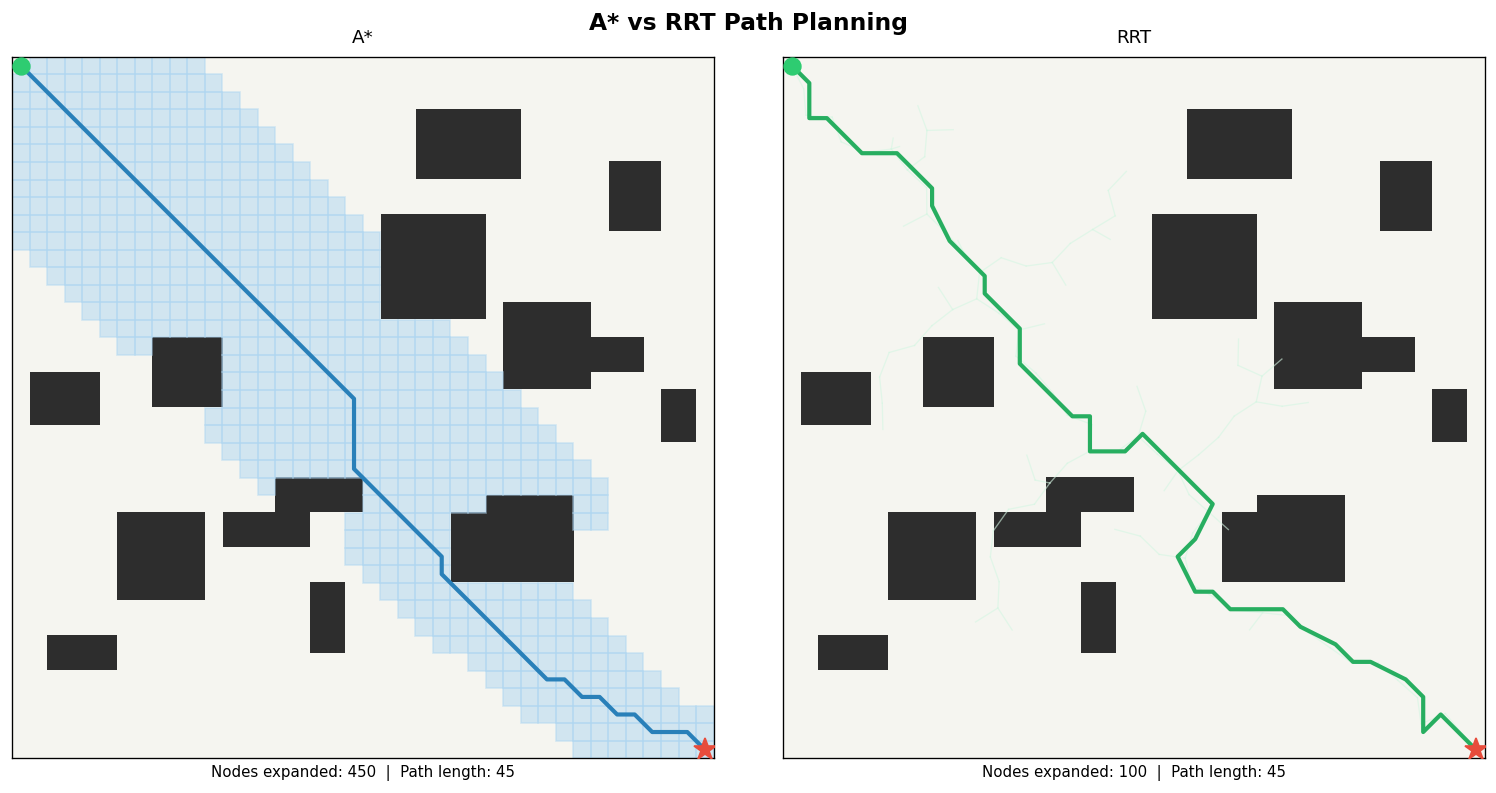
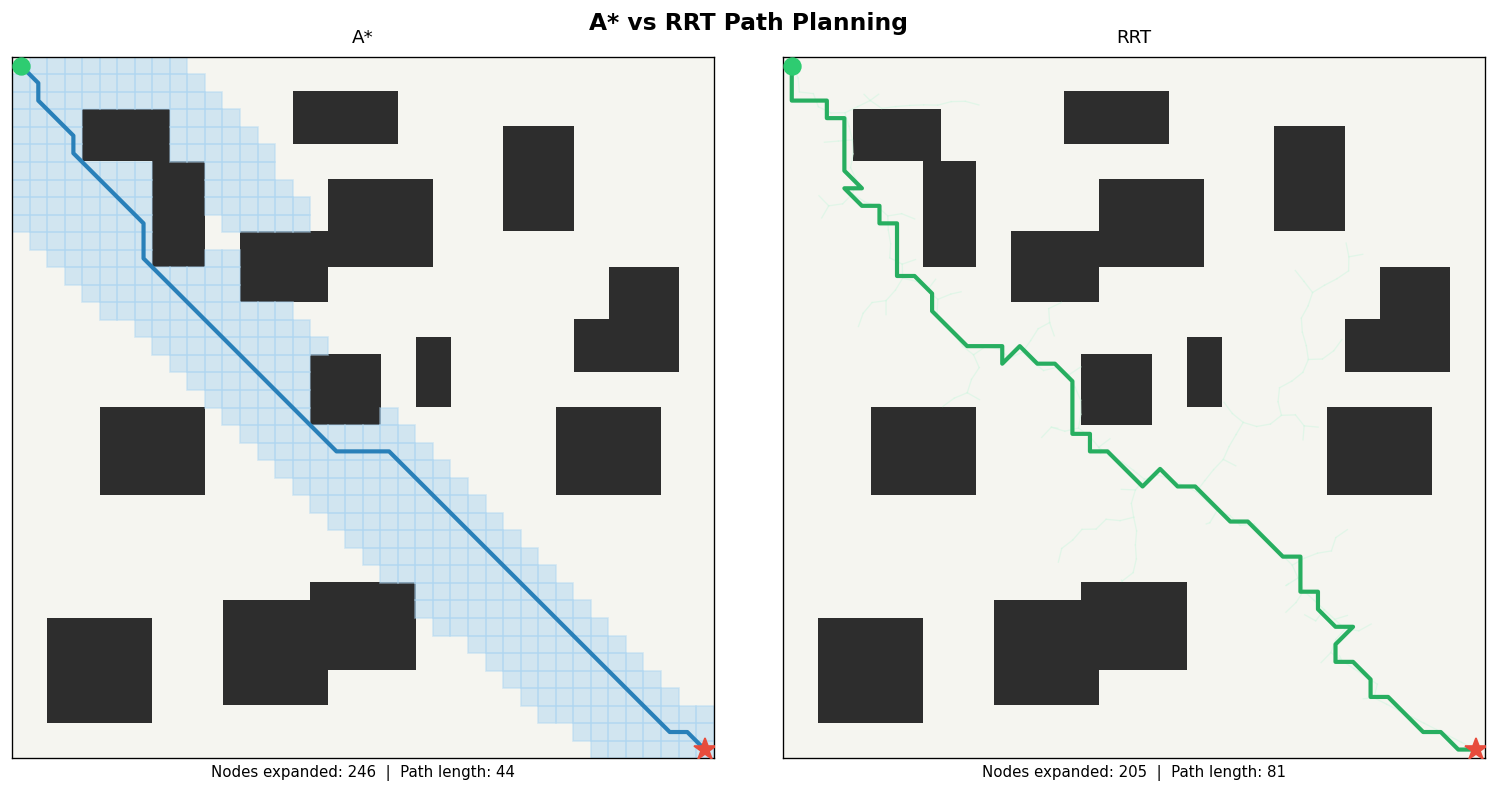
fix: use round() instead of int() in collision check

diff --git a/planners/rrt.py b/planners/rrt.py
@@ -13,7 +13,7 @@ Five steps every iteration:
 """
 
 class RRTPlanner:
-    def __init__(self, step_size=1.5, max_iterations=5000, goal_sample_rate=0.1, goal_tolerance=1.5, seed=None):
+    def __init__(self, step_size=0.8, max_iterations=5000, goal_sample_rate=0.1, goal_tolerance=1.5, seed=None):
         self.step_size = step_size
         self.max_iterations = max_iterations
         self.goal_sample_rate = goal_sample_rate
@@ -22,9 +22,9 @@ class RRTPlanner:
         self.nodes_expanded = 0
 
     def plan(self, grid, start, goal):
-        rows, cols = grid.shape
-        start_pt = np.array([start[1], start[0]], dtype=float)
-        goal_pt  = np.array([goal[1],  goal[0]],  dtype=float)
+        rows, cols = grid.shape #y ,x
+        start_pt = np.array([start[1], start[0]], dtype=float) #x,y
+        goal_pt  = np.array([goal[1],  goal[0]],  dtype=float) #x,y
 
         self.nodes  = [start_pt]
         self.parent = [-1]
@@ -71,8 +71,8 @@ class RRTPlanner:
     def _collision_free(self, q_from, q_to, grid, rows, cols, n_checks=10):
         for t in np.linspace(0, 1, n_checks):
             pt  = q_from + t * (q_to - q_from)
-            col = int(np.clip(pt[0], 0, cols - 1))
-            row = int(np.clip(pt[1], 0, rows - 1))
+            col = int(round(np.clip(pt[0], 0, cols - 1)))
+            row = int(round(np.clip(pt[1], 0, rows - 1)))
             if grid[row, col] == 1:
                 return False
         return True

diff --git a/maps/map_generator.py b/maps/map_generator.py
@@ -10,9 +10,9 @@ def random_blocks(rows=40, cols=40, n_obstacles=15, min_size=2, max_size=6, seed
         r = rng.integers(0, rows - h)
         c = rng.integers(0, cols - w)
         grid[r:r+h, c:c+w] = 1
-    grid[0:2, 0:2] = 0
-    grid[rows-2:rows, cols-2:cols] = 0
-    return gridm 
+    grid[0:2, 0:2] = 0 #top-left start
+    grid[rows-2:rows, cols-2:cols] = 0 #bottom-right=goal
+    return grid
 
 def get_start_goal(grid):
     rows, cols = grid.shape

diff --git a/demo.py b/demo.py
@@ -9,7 +9,7 @@ from planners.rrt import RRTPlanner
 from maps.map_generator import random_blocks, get_start_goal
 from viz.animate import plot_comparison
 
-grid = random_blocks(seed=42)
+grid = random_blocks(seed=4)
 start, goal = get_start_goal(grid)
 
 # --- A* ---
